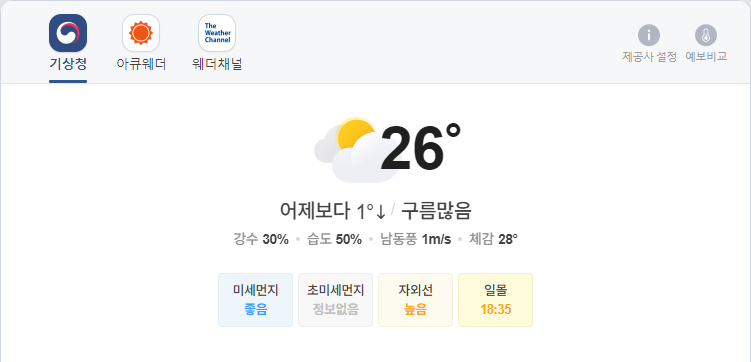
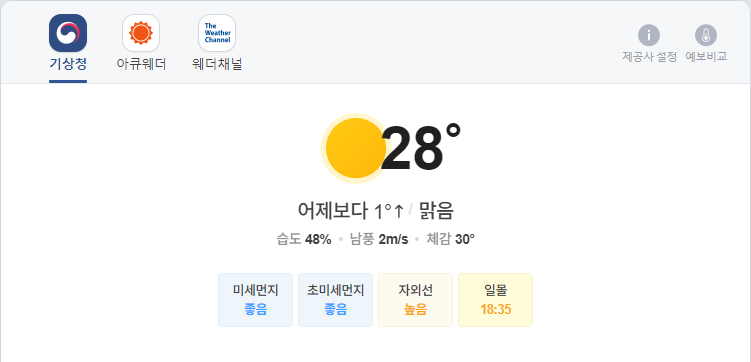
update result

diff --git a/README.md b/README.md
@@ -1,5 +1,5 @@
-##  2021-09-20 12:07:34   월요일 
-##### 날씨   -   어제보다 1° 낮아요구름많음  
+##  2021-09-20 16:02:51   월요일 
+##### 날씨   -   어제보다 1° 높아요맑음  
 <center><img src="../img/naver_weather_week.png"></center>
 ----
 ----
@@ -17,7 +17,7 @@
 <tr align = "right" > <td>NASDAQ</td><td>15,043.97</td><td>-137.95</td><td><font size="3" color="blue" >-0.91%</font></td><td><font size="3" color="black">0</font></td><td><font size="3" color="black">0</font></td><td>0</td>  </tr>
 <tr align = "right" > <td>S&P</td><td>4,432.99</td><td>-40.76</td><td><font size="3" color="blue" >-0.91%</font></td><td><font size="3" color="black">0</font></td><td><font size="3" color="black">0</font></td><td>0</td>  </tr>
 <tr align = "right" > <td>SHANHAI</td><td>3,613.97</td><td>6.87</td><td><font size="3" color="red" >0.19%</font></td><td><font size="3" color="black">0</font></td><td><font size="3" color="black">0</font></td><td>0</td>  </tr>
-<tr align = "right" > <td>INDIA</td><td>59,015.89</td><td>-125.27</td><td><font size="3" color="blue" >-0.21%</font></td><td><font size="3" color="black">0</font></td><td><font size="3" color="black">0</font></td><td>0</td>  </tr>
+<tr align = "right" > <td>INDIA</td><td>58,854.05</td><td>-161.84</td><td><font size="3" color="blue" >-0.27%</font></td><td><font size="3" color="black">0</font></td><td><font size="3" color="black">0</font></td><td>0</td>  </tr>
 </table>
 ----
 ##### 시장
